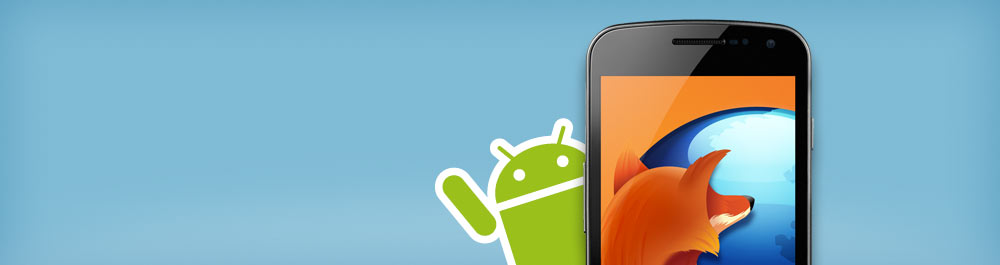
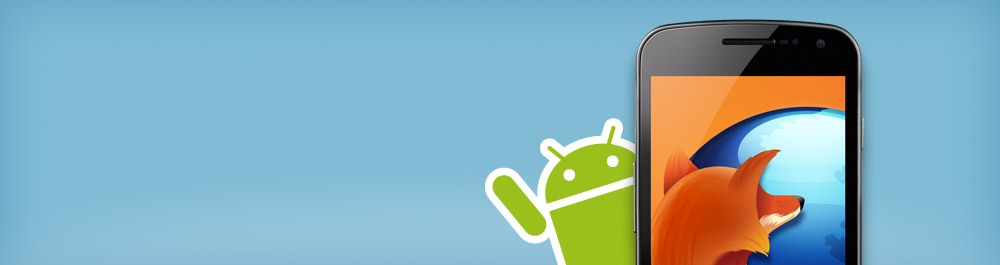
Last minute android promo change from Bug 763645

Changed region(s): [[0.434, 0.0604, 0.868, 1.0]]

diff --git a/media/css/home.less b/media/css/home.less
@@ -235,6 +235,10 @@
         color: #fff;
         text-shadow: none;
     }
+    h4 {
+        color: #fff;
+        text-shadow: none;
+    }
     p {
         color: #fff;
         text-shadow: none;
@@ -273,6 +277,25 @@
                 color: @textColorSecondary;
             }
         }
+    }
+}
+
+#promo-android,
+#page-promo-android {
+    h3  {
+        font-size: 64px;
+        margin-bottom: @baseLine / 2;
+    }
+    h4 {
+        text-decoration: none;
+        text-shadow: none;
+        font-size: 28px;
+        float: none;
+        width: 50%;
+        margin-bottom: @baseLine;
+    }
+    div  {
+        width: 60%;
     }
 }
 
@@ -322,6 +345,18 @@
             font-size: 26px;
             letter-spacing: -1px;
             padding-top: @baseLine;
+        }
+    }
+
+    #promo-android,
+    #page-promo-android {
+        h3  {
+            font-size: 38px;
+            margin-bottom: @baseLine / 2;
+        }
+        h4 {
+            font-size: 20px;
+            
         }
     }
 
@@ -413,6 +448,7 @@
             width: auto;
             float: none;
         }
+        h4,
         h3 {
             margin-bottom: @baseLine / 3;
             color: @textColorPrimary;
@@ -426,6 +462,22 @@
         padding: 12px;
         font-size: 28px;
     }
+
+    #promo-android,
+    #page-promo-android {
+        h3  {
+            font-size: 36px;
+        }
+        h4 {
+            font-size: 20px;
+            width: auto;
+            margin-bottom: @baseLine / 2;
+        }
+        div {
+            width: auto;
+        }
+    }
+
 
     #home-news,
     #home-promos,

diff --git a/apps/mozorg/templates/mozorg/home.html b/apps/mozorg/templates/mozorg/home.html
@@ -48,7 +48,8 @@
       <a href="{{ php_url('/mobile/') }}?WT.mc_id=moandroid&amp;WT.mc_ev=click" class="container">
         <img src="{{ media('img/home/promo-android.jpg') }}" alt="Firefox for Android artwork">
         <div>
-          <h3>Get the mobile browser that’s got your back.</h3>
+          <h3>Fast. Smart. Safe.</h3>
+          <h4>Get the mobile browser that’s got your back.</h4>
           <p>Get Firefox for Android&nbsp;»</p>
         </div>
       </a>
